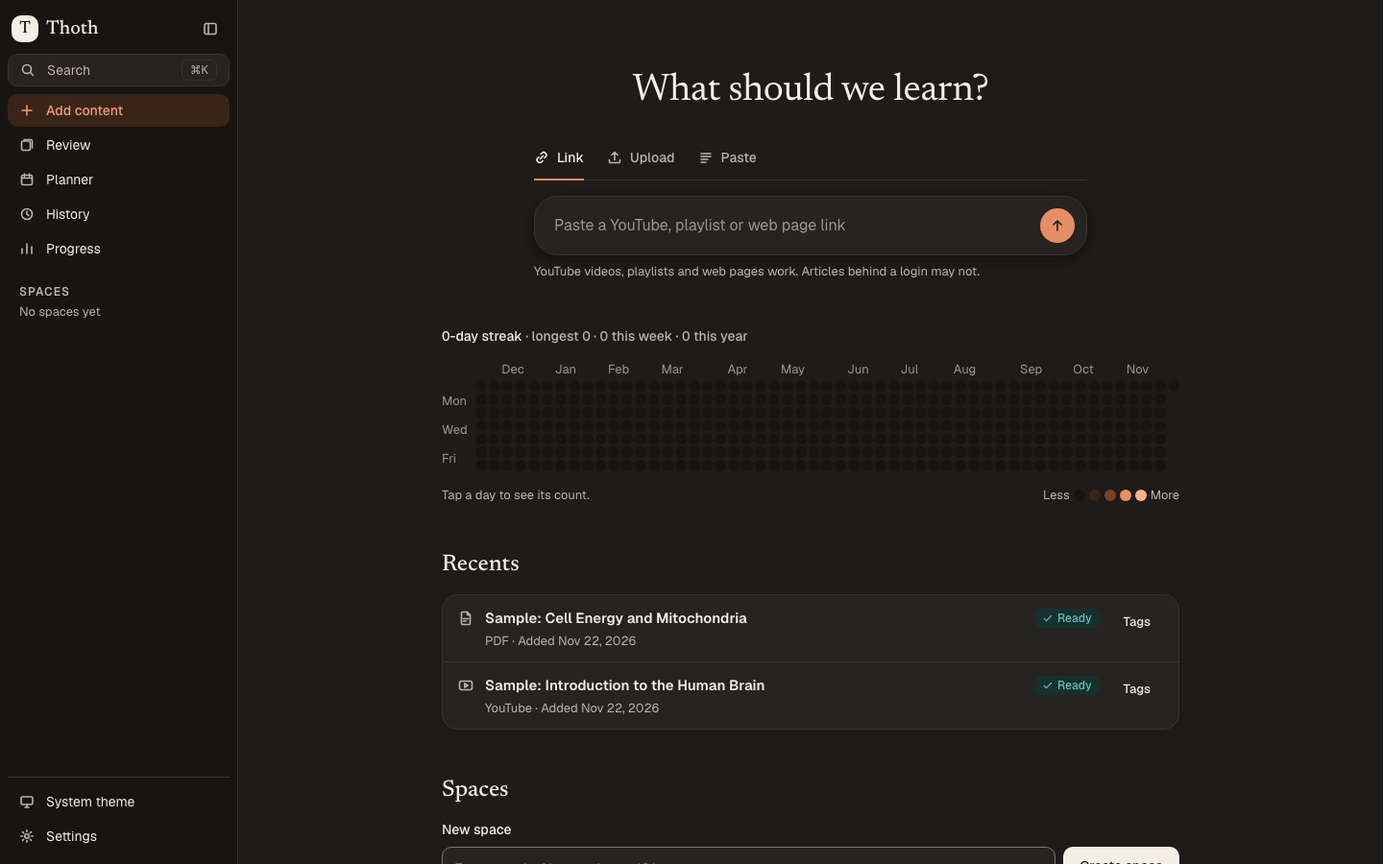
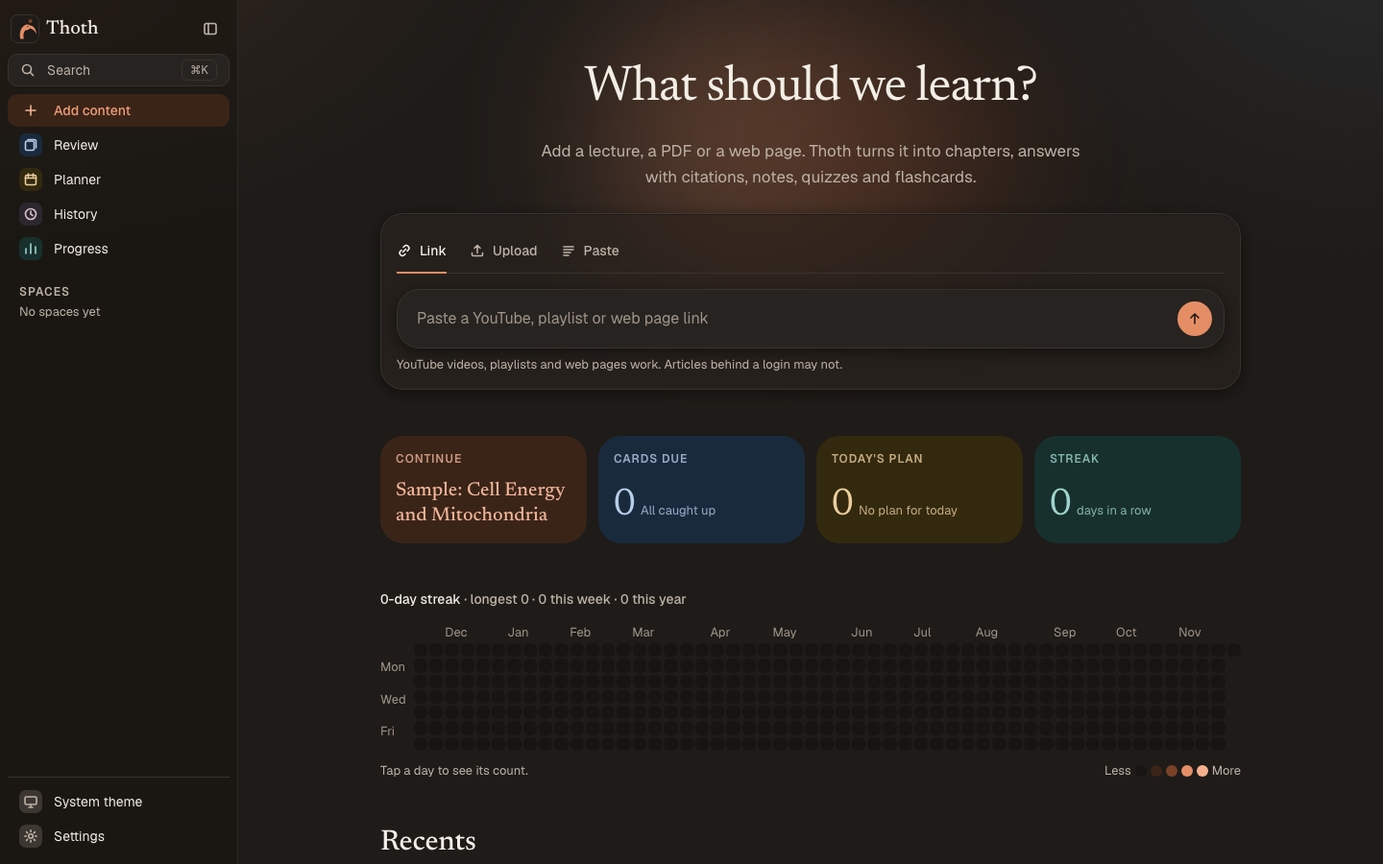
feat(app): polish redesign: habit tiles, palette spring, nav pill, docs and ADR-0047
Tinted habit tiles, palette spring-in, NavPill spring, formatCount and kindTone
tests, brand README, ADR-0047 (amends 0009 and 0020), docs 05 and 11, roadmap
Phase 13, and the landing screenshots retaken from the redesigned app.

diff --git a/apps/web/src/features/habits/heatmap.tsx b/apps/web/src/features/habits/heatmap.tsx
@@ -3,6 +3,7 @@
 import type { Habits as HabitsData, HeatmapCell } from "@thoth/core";
 import { cx } from "@thoth/ui";
 import { useEffect, useRef, useState } from "react";
+import { CountUp } from "@/app/_components/motion/primitives";
 import { loadHabitsAction } from "./actions";
 
 /** Five Hearth steps: empty, then four accent strengths (light and dark both read as "more"). */
@@ -63,10 +64,10 @@ export function Habits({ compact = false }: { compact?: boolean }) {
         </p>
       ) : (
         <div className="grid grid-cols-2 gap-4 sm:grid-cols-4">
-          <Stat label="Current streak" value={`${stats.currentStreak}`} unit="days" />
-          <Stat label="Longest streak" value={`${stats.longestStreak}`} unit="days" />
-          <Stat label="This week" value={`${stats.thisWeek}`} unit="actions" />
-          <Stat label="This year" value={`${stats.thisYear}`} unit="actions" />
+          <Stat tone="tone-sage" label="Current streak" value={stats.currentStreak} unit="days" />
+          <Stat tone="tone-butter" label="Longest streak" value={stats.longestStreak} unit="days" />
+          <Stat tone="tone-sky" label="This week" value={stats.thisWeek} unit="actions" />
+          <Stat tone="tone-peach" label="This year" value={stats.thisYear} unit="actions" />
         </div>
       )}
       <Grid heatmap={heatmap} />
@@ -74,12 +75,23 @@ export function Habits({ compact = false }: { compact?: boolean }) {
   );
 }
 
-function Stat({ label, value, unit }: { label: string; value: string; unit: string }) {
+/** A tinted habit tile (ADR-0047); the number counts up when it appears. */
+function Stat({
+  label,
+  value,
+  unit,
+  tone,
+}: {
+  label: string;
+  value: number;
+  unit: string;
+  tone: string;
+}) {
   return (
-    <div className="flex flex-col gap-1 rounded-lg border border-border-subtle bg-surface-200 p-4">
-      <span className="type-caption text-ink-muted">{label}</span>
-      <span className="type-heading-1 text-ink tabular-nums">
-        {value} <span className="type-caption text-ink-muted">{unit}</span>
+    <div className={cx("flex flex-col gap-1 rounded-xl p-4", tone)}>
+      <span className="type-caption opacity-80">{label}</span>
+      <span className="type-heading-1 tabular-nums">
+        <CountUp value={value} /> <span className="type-caption opacity-80">{unit}</span>
       </span>
     </div>
   );

diff --git a/apps/web/src/app/_components/motion/nav-pill.tsx b/apps/web/src/app/_components/motion/nav-pill.tsx
@@ -4,14 +4,17 @@ import { spring } from "@thoth/ui";
 import { motion } from "motion/react";
 
 /**
- * The current page's highlight in the sidebar. One `layoutId` across every nav item, so it
- * slides from the old page to the new one (ADR-0047). Render it first inside a nav item.
+ * The current page's highlight in the sidebar (ADR-0047). It springs in as a page opens; its
+ * shared `layoutId` also slides it between items that live in the same render. Render it
+ * first inside a nav item.
  */
 export function NavPill({ show }: { show: boolean }) {
   if (!show) return null;
   return (
     <motion.span
       layoutId="sidebar-current"
+      initial={{ opacity: 0, scale: 0.92 }}
+      animate={{ opacity: 1, scale: 1 }}
       transition={spring.snappy}
       aria-hidden="true"
       className="app-nav-pill"

diff --git a/apps/web/src/app/_components/motion/format.test.ts b/apps/web/src/app/_components/motion/format.test.ts
@@ -1,0 +1,21 @@
+import { contentKinds } from "@thoth/core";
+import { describe, expect, it } from "vitest";
+import { kindTone } from "../../../features/library/kind-tone";
+import { formatCount } from "./format";
+
+describe("formatCount (CountUp)", () => {
+  it("shows whole numbers only, with separators", () => {
+    expect(formatCount(0)).toBe("0");
+    expect(formatCount(3.4999)).toBe("3");
+    expect(formatCount(12.5)).toBe("13");
+    expect(formatCount(1234567)).toBe("1,234,567");
+  });
+});
+
+describe("kindTone", () => {
+  it("gives every content kind its own tone", () => {
+    const tones = contentKinds.map((k) => kindTone[k]);
+    expect(tones.every((t) => t?.startsWith("tone-"))).toBe(true);
+    expect(new Set(tones).size).toBe(contentKinds.length);
+  });
+});

diff --git a/apps/web/src/app/_components/motion/primitives.tsx b/apps/web/src/app/_components/motion/primitives.tsx
@@ -3,6 +3,7 @@
 import { spring } from "@thoth/ui";
 import { animate, type HTMLMotionProps, motion, useInView, useMotionValue } from "motion/react";
 import { type ReactNode, useEffect, useRef } from "react";
+import { formatCount } from "./format";
 
 /** Fades and rises into place the first time it scrolls into view, after `delay` seconds. */
 export function Reveal({
@@ -63,9 +64,4 @@ export function CountUp({ value, className }: { value: number; className?: strin
       {formatCount(value)}
     </span>
   );
-}
-
-/** Whole numbers with thousands separators; CountUp shows only these, never 3.4999. */
-export function formatCount(n: number): string {
-  return Math.round(n).toLocaleString("en");
 }

diff --git a/apps/web/src/app/shell.css b/apps/web/src/app/shell.css
@@ -421,3 +421,26 @@
     background: var(--surface-300);
   }
 }
+
+/* The palette springs open (ADR-0047); the global reduced-motion rule turns this off. */
+@keyframes palette-in {
+  from {
+    opacity: 0;
+    transform: translateX(-50%) translateY(-8px) scale(0.97);
+  }
+  to {
+    opacity: 1;
+    transform: translateX(-50%) translateY(0) scale(1);
+  }
+}
+.palette__content {
+  animation: palette-in 260ms cubic-bezier(0.34, 1.4, 0.64, 1);
+}
+.palette__overlay {
+  animation: fade-in 200ms cubic-bezier(0.2, 0, 0, 1);
+}
+@keyframes fade-in {
+  from {
+    opacity: 0;
+  }
+}

diff --git a/apps/web/src/app/_components/motion/format.ts b/apps/web/src/app/_components/motion/format.ts
@@ -1,0 +1,4 @@
+/** Whole numbers with thousands separators; CountUp shows only these, never 3.4999. */
+export function formatCount(n: number): string {
+  return Math.round(n).toLocaleString("en");
+}

diff --git a/docs/decision/README.md b/docs/decision/README.md
@@ -48,53 +48,54 @@ What becomes easier, what becomes harder, and the follow-ups.
 
 ## Index
 
-| #                                                             | Decision                                                                                    | Status                           |
-| ------------------------------------------------------------- | ------------------------------------------------------------------------------------------- | -------------------------------- |
-| [0001](0001-record-architecture-decisions.md)                 | Record architecture decisions as append-only ADRs                                           | Accepted                         |
-| [0002](0002-single-user-local-first-pwa.md)                   | Single-user, local-first, installable PWA                                                   | Accepted                         |
-| [0003](0003-pnpm-turborepo-monorepo.md)                       | pnpm + Turborepo monorepo with source-only internal packages                                | Accepted                         |
-| [0004](0004-hexagonal-architecture.md)                        | Hexagonal architecture: core, ports, adapters, one composition root                         | Accepted (amended by 0017)       |
-| [0005](0005-result-type-for-expected-errors.md)               | `Result` type for expected failures; exceptions only for bugs                               | Accepted                         |
-| [0006](0006-sqlite-libsql-drizzle.md)                         | SQLite through libSQL and Drizzle ORM                                                       | Accepted (amended by 0029)       |
-| [0007](0007-pwa-manifest-and-handwritten-service-worker.md)   | Built-in manifest + a hand-written service worker                                           | Accepted                         |
-| [0008](0008-llm-provider-port-api-key-and-subscription.md)    | One LLM port with two adapters: API key and Claude subscription                             | Accepted (amended by 0013, 0037) |
-| [0009](0009-hearth-design-system-vendored-tokens.md)          | Hearth design system, vendored, with generated CSS tokens                                   | Accepted                         |
-| [0010](0010-tooling-biome-vitest-strict-ts.md)                | Biome, Vitest, strict TypeScript 5.9                                                        | Accepted                         |
-| [0011](0011-nextjs-16-cache-components-server-actions.md)     | Next.js 16 App Router with Cache Components; Server Actions as thin adapters                | Accepted                         |
-| [0012](0012-feature-folders-in-web-app.md)                    | Feature folders in the web app                                                              | Accepted                         |
-| [0013](0013-llm-adapter-defaults-and-isolation.md)            | LLM adapter defaults, structured output, subscription isolation                             | Accepted (amended by 0037)       |
-| [0014](0014-ingestion-pipeline-and-job-runner.md)             | Ingestion: `@thoth/ingest` adapter, in-process job runner, segment-anchored chapters        | Accepted                         |
-| [0015](0015-chat-source-context.md)                           | Chat context: whole source under 150k tokens, else FTS top-k                                | Accepted (amended by 0029)       |
-| [0016](0016-learn-tools-background-generation.md)             | Learn tools generate in the background with `after()`; panels poll                          | Accepted                         |
-| [0017](0017-quiz-grading-and-fsrs-scheduling.md)              | Quiz grading rules; FSRS via `ts-fsrs` in core (amends 0004)                                | Accepted                         |
-| [0018](0018-exams-and-progress.md)                            | Space exams with timed sessions, server-only answer keys, progress computed on read         | Accepted                         |
-| [0019](0019-one-based-paragraph-citations.md)                 | Paragraph citations are 1-based everywhere and stored on text locators                      | Accepted                         |
-| [0020](0020-native-app-feel-and-app-frame.md)                 | Native app feel: fixed app frame, collapsible sidebar, Cmd+K, theme switch                  | Accepted                         |
-| [0021](0021-dockable-content-workspace.md)                    | Dockable content workspace with dockview                                                    | Accepted                         |
-| [0022](0022-notes-live-preview-editor.md)                     | Notes use a live-preview Tiptap editor, stored as Markdown                                  | Accepted                         |
-| [0023](0023-activity-log-for-habit-tracker.md)                | Activity log for the habit tracker                                                          | Accepted                         |
-| [0024](0024-dockable-workspace-implementation.md)             | How the dockable workspace is built (dockview details)                                      | Accepted                         |
-| [0025](0025-notes-draft-streaming-and-storage.md)             | Notes drafts stream through a polled in-memory run; editor storage details                  | Accepted                         |
-| [0026](0026-habit-days-search-and-anki-export.md)             | Habit days, search composition and Anki export format                                       | Accepted                         |
-| [0027](0027-passcode-gate-and-lan-server.md)                  | Passcode gate for non-local access, with a peer-stamping LAN server                         | Accepted                         |
-| [0028](0028-browser-tests-with-scripted-llm.md)               | End-to-end browser tests with Playwright and a scripted LLM, run in CI                      | Accepted                         |
-| [0029](0029-local-embeddings-and-hybrid-retrieval.md)         | Local embeddings in libSQL vectors, hybrid retrieval with FTS5                              | Accepted                         |
-| [0030](0030-study-planner.md)                                 | A deterministic study planner that adapts to progress                                       | Accepted                         |
-| [0031](0031-whiteboard-canvas.md)                             | One whiteboard canvas for visual explanations and mind maps, linked to the source           | Accepted                         |
-| [0032](0032-e2e-suite-shape.md)                               | How the end-to-end suite is shaped                                                          | Accepted                         |
-| [0033](0033-search-indexer-and-retrieval-fallbacks.md)        | Background search indexer, Cmd+K distance cut-off and keyword fallbacks                     | Accepted                         |
-| [0034](0034-planner-pacing-exam-and-rest-days.md)             | Planner pacing, the exam day and the rest day                                               | Accepted                         |
-| [0035](0035-whiteboard-operations-and-runs.md)                | Whiteboard operations, guards and background runs                                           | Accepted                         |
-| [0036](0036-desktop-app-tauri-node-sidecar.md)                | Desktop app with Tauri 2 and a Node sidecar                                                 | Accepted                         |
-| [0037](0037-openai-compatible-providers-profiles-keychain.md) | OpenAI-compatible providers, per-task profiles, keys in the OS keychain (amends 0008, 0013) | Accepted                         |
-| [0038](0038-annotations-thoth-links-backlinks.md)             | Annotations, `thoth:` links and a backlink index                                            | Accepted                         |
-| [0039](0039-space-owned-notes-chats-and-safe-rebuilds.md)     | Spaces own notes and chats; migrations run with foreign keys off                            | Accepted                         |
-| [0040](0040-llm-router-and-structured-output-fallback.md)     | A per-task router behind `container.llm()`, and how structured output degrades              | Accepted                         |
-| [0041](0041-annotation-colours-notes-bridge-pdf-export.md)    | Annotation colours, the notes bridge and PDF export                                         | Accepted                         |
-| [0042](0042-space-chat-citations-accents-playlists-tabs.md)   | Space chat citations, accent swatches, playlist listing, space tabs                         | Accepted                         |
-| [0043](0043-desktop-server-entry-bundle-cli-shim.md)          | Desktop server entry, flat bundle and CLI shim                                              | Accepted                         |
-| [0044](0044-landing-site-and-freshness-gate.md)               | A static landing site, one content source and a freshness gate                              | Accepted (amended by 0046)       |
-| [0045](0045-open-source-agpl-and-releases.md)                 | Open source under AGPL-3.0, with releases under stable names                                | Accepted                         |
-| [0046](0046-playful-landing-page.md)                          | A playful landing page: spring motion, live demos and guided walkthroughs (amends 0044)     | Accepted                         |
+| #                                                             | Decision                                                                                        | Status                           |
+| ------------------------------------------------------------- | ----------------------------------------------------------------------------------------------- | -------------------------------- |
+| [0001](0001-record-architecture-decisions.md)                 | Record architecture decisions as append-only ADRs                                               | Accepted                         |
+| [0002](0002-single-user-local-first-pwa.md)                   | Single-user, local-first, installable PWA                                                       | Accepted                         |
+| [0003](0003-pnpm-turborepo-monorepo.md)                       | pnpm + Turborepo monorepo with source-only internal packages                                    | Accepted                         |
+| [0004](0004-hexagonal-architecture.md)                        | Hexagonal architecture: core, ports, adapters, one composition root                             | Accepted (amended by 0017)       |
+| [0005](0005-result-type-for-expected-errors.md)               | `Result` type for expected failures; exceptions only for bugs                                   | Accepted                         |
+| [0006](0006-sqlite-libsql-drizzle.md)                         | SQLite through libSQL and Drizzle ORM                                                           | Accepted (amended by 0029)       |
+| [0007](0007-pwa-manifest-and-handwritten-service-worker.md)   | Built-in manifest + a hand-written service worker                                               | Accepted                         |
+| [0008](0008-llm-provider-port-api-key-and-subscription.md)    | One LLM port with two adapters: API key and Claude subscription                                 | Accepted (amended by 0013, 0037) |
+| [0009](0009-hearth-design-system-vendored-tokens.md)          | Hearth design system, vendored, with generated CSS tokens                                       | Accepted (amended by 0047)       |
+| [0010](0010-tooling-biome-vitest-strict-ts.md)                | Biome, Vitest, strict TypeScript 5.9                                                            | Accepted                         |
+| [0011](0011-nextjs-16-cache-components-server-actions.md)     | Next.js 16 App Router with Cache Components; Server Actions as thin adapters                    | Accepted                         |
+| [0012](0012-feature-folders-in-web-app.md)                    | Feature folders in the web app                                                                  | Accepted                         |
+| [0013](0013-llm-adapter-defaults-and-isolation.md)            | LLM adapter defaults, structured output, subscription isolation                                 | Accepted (amended by 0037)       |
+| [0014](0014-ingestion-pipeline-and-job-runner.md)             | Ingestion: `@thoth/ingest` adapter, in-process job runner, segment-anchored chapters            | Accepted                         |
+| [0015](0015-chat-source-context.md)                           | Chat context: whole source under 150k tokens, else FTS top-k                                    | Accepted (amended by 0029)       |
+| [0016](0016-learn-tools-background-generation.md)             | Learn tools generate in the background with `after()`; panels poll                              | Accepted                         |
+| [0017](0017-quiz-grading-and-fsrs-scheduling.md)              | Quiz grading rules; FSRS via `ts-fsrs` in core (amends 0004)                                    | Accepted                         |
+| [0018](0018-exams-and-progress.md)                            | Space exams with timed sessions, server-only answer keys, progress computed on read             | Accepted                         |
+| [0019](0019-one-based-paragraph-citations.md)                 | Paragraph citations are 1-based everywhere and stored on text locators                          | Accepted                         |
+| [0020](0020-native-app-feel-and-app-frame.md)                 | Native app feel: fixed app frame, collapsible sidebar, Cmd+K, theme switch                      | Accepted (amended by 0047)       |
+| [0021](0021-dockable-content-workspace.md)                    | Dockable content workspace with dockview                                                        | Accepted                         |
+| [0022](0022-notes-live-preview-editor.md)                     | Notes use a live-preview Tiptap editor, stored as Markdown                                      | Accepted                         |
+| [0023](0023-activity-log-for-habit-tracker.md)                | Activity log for the habit tracker                                                              | Accepted                         |
+| [0024](0024-dockable-workspace-implementation.md)             | How the dockable workspace is built (dockview details)                                          | Accepted                         |
+| [0025](0025-notes-draft-streaming-and-storage.md)             | Notes drafts stream through a polled in-memory run; editor storage details                      | Accepted                         |
+| [0026](0026-habit-days-search-and-anki-export.md)             | Habit days, search composition and Anki export format                                           | Accepted                         |
+| [0027](0027-passcode-gate-and-lan-server.md)                  | Passcode gate for non-local access, with a peer-stamping LAN server                             | Accepted                         |
+| [0028](0028-browser-tests-with-scripted-llm.md)               | End-to-end browser tests with Playwright and a scripted LLM, run in CI                          | Accepted                         |
+| [0029](0029-local-embeddings-and-hybrid-retrieval.md)         | Local embeddings in libSQL vectors, hybrid retrieval with FTS5                                  | Accepted                         |
+| [0030](0030-study-planner.md)                                 | A deterministic study planner that adapts to progress                                           | Accepted                         |
+| [0031](0031-whiteboard-canvas.md)                             | One whiteboard canvas for visual explanations and mind maps, linked to the source               | Accepted                         |
+| [0032](0032-e2e-suite-shape.md)                               | How the end-to-end suite is shaped                                                              | Accepted                         |
+| [0033](0033-search-indexer-and-retrieval-fallbacks.md)        | Background search indexer, Cmd+K distance cut-off and keyword fallbacks                         | Accepted                         |
+| [0034](0034-planner-pacing-exam-and-rest-days.md)             | Planner pacing, the exam day and the rest day                                                   | Accepted                         |
+| [0035](0035-whiteboard-operations-and-runs.md)                | Whiteboard operations, guards and background runs                                               | Accepted                         |
+| [0036](0036-desktop-app-tauri-node-sidecar.md)                | Desktop app with Tauri 2 and a Node sidecar                                                     | Accepted                         |
+| [0037](0037-openai-compatible-providers-profiles-keychain.md) | OpenAI-compatible providers, per-task profiles, keys in the OS keychain (amends 0008, 0013)     | Accepted                         |
+| [0038](0038-annotations-thoth-links-backlinks.md)             | Annotations, `thoth:` links and a backlink index                                                | Accepted                         |
+| [0039](0039-space-owned-notes-chats-and-safe-rebuilds.md)     | Spaces own notes and chats; migrations run with foreign keys off                                | Accepted                         |
+| [0040](0040-llm-router-and-structured-output-fallback.md)     | A per-task router behind `container.llm()`, and how structured output degrades                  | Accepted                         |
+| [0041](0041-annotation-colours-notes-bridge-pdf-export.md)    | Annotation colours, the notes bridge and PDF export                                             | Accepted                         |
+| [0042](0042-space-chat-citations-accents-playlists-tabs.md)   | Space chat citations, accent swatches, playlist listing, space tabs                             | Accepted                         |
+| [0043](0043-desktop-server-entry-bundle-cli-shim.md)          | Desktop server entry, flat bundle and CLI shim                                                  | Accepted                         |
+| [0044](0044-landing-site-and-freshness-gate.md)               | A static landing site, one content source and a freshness gate                                  | Accepted (amended by 0046)       |
+| [0045](0045-open-source-agpl-and-releases.md)                 | Open source under AGPL-3.0, with releases under stable names                                    | Accepted                         |
+| [0046](0046-playful-landing-page.md)                          | A playful landing page: spring motion, live demos and guided walkthroughs (amends 0044)         | Accepted                         |
+| [0047](0047-app-redesign-icon-expressive-layer.md)            | The app gets an icon, an expressive layer, spring motion and a little glass (amends 0009, 0020) | Accepted                         |
 
 Add a new row when you add an ADR. When you supersede one, change its status here as well.

diff --git a/docs/decision/0047-app-redesign-icon-expressive-layer.md b/docs/decision/0047-app-redesign-icon-expressive-layer.md
@@ -1,0 +1,58 @@
+# ADR-0047: The app gets an icon, an expressive layer, spring motion and a little glass
+
+- Status: Accepted
+- Date: 2026-11-22
+- Amends: ADR-0009, ADR-0020
+- Builds on: ADR-0046
+
+## Context
+
+The landing page (ADR-0046) found a look the owner loves: "Hearth, turned up", with springy motion. The app itself still looked plain, and its mark was a serif "T".
+
+The owner asked for:
+
+- the same feel in the app;
+- an icon with meaning;
+- "some liquid glass, not much, so it feels like an app rather than a web page".
+
+The owner's limit was **bold chrome, calm reading**. Reading surfaces stay quiet.
+
+## Decision
+
+1. **The icon.** An ibis head under the moon (Thoth, god of writing and the moon), drawn flat and simple, in the spirit of the Docker and DeepSeek animals.
+   - **Masters:** in `design/brand/`, in three forms: the tile, a small cut for 16–32 px, and a `currentColor` mark.
+   - **Components:** `ThothIcon` and `ThothMark` in `@thoth/ui`.
+   - **Where it appears:**
+     - the app sidebar;
+     - the favicons;
+     - the PWA icons, rendered from the master;
+     - the desktop app icons, generated with `tools/render-brand-icon.mjs` and `tauri icon`;
+     - the landing site.
+2. **One expressive layer for the app and the site,** in `@thoth/ui`.
+   - **`styles/expressive.css`:**
+     - tones (`tone-peach`, `tone-sage`, `tone-sky`, `tone-butter`, `tone-lilac`);
+     - glows;
+     - `type-hero`;
+     - 3D helpers;
+     - `glass`.
+   - **`motion.ts`:** the springs, snappy, smooth, gentle and bouncy.
+
+   All of it is built from Hearth tokens with `color-mix`; there is no hex. This amends ADR-0009: tones may fill cards, tiles and chips in chrome, but **never sit behind reading text** (PDF, transcript, notes, chat answers, whiteboard content).
+3. **Motion: `motion` 14.10.1 in `apps/web`,** under `LazyMotion` and `MotionConfig reducedMotion="user"`. This amends ADR-0020's motion rule: springs replace fixed durations for presses, panels, cards and lists; CSS keyframes stay for things like the palette opening. With `prefers-reduced-motion`, transforms are dropped. The e2e suite runs with reduced motion, so journeys never wait on animation.
+4. **Glass, lightly.**
+   - **Where:** the sidebar, the command palette, dialogs and the home composer card. They are translucent and blurred, over soft ambient light painted behind the app frame.
+   - **Reduced transparency:** with `prefers-reduced-transparency`, the glass turns opaque.
+   - **Never:** on reading surfaces.
+5. **Where the colour goes** (doc 11 has the full list):
+   - **Home:** the at-a-glance tiles count up, recents are tinted by kind (`features/library/kind-tone.ts`), and space tiles take each space's own accent.
+   - **Review:** a 3D flip, rating buttons tinted by meaning, and cards that fly off.
+   - **Quiz:** a spring progress bar, and feedback that pops in, or shakes when wrong.
+   - **Spaces, progress and habits:** tinted number tiles, and a score ring.
+   - **Sidebar:** icon tiles.
+
+## Consequences
+
+- The app and the landing page share one look. A change to a tone or a spring changes both.
+- The landing page's screenshots, retaken by `site-shots.ts`, show the redesigned app with no other work.
+- The sidebar is rendered per page, so its current-page pill springs in when a page opens. It does not slide from the previous item. Moving `AppShell` into a shared layout would make it slide; that is left for later.
+- `motion` adds about 60 KB to the app's client JavaScript, loaded lazily.

diff --git a/docs/technical_design/11-app-shell-and-feel.md b/docs/technical_design/11-app-shell-and-feel.md
@@ -41,18 +41,23 @@ flowchart LR
 6. **Chrome is not text.**
    - Buttons, tabs, nav items and panel headers use `cursor: default` and `user-select: none`; `shell.css` sets this.
    - Content stays selectable.
-7. **Motion** (Hearth motion guide):
-   - Durations: 150 ms for hover and press, 200 ms for menus and drawers, 300 ms for modals.
-   - Easing: `cubic-bezier(0.2, 0, 0, 1)` for elements entering.
+7. **Motion** (ADR-0047): springs, like iOS and Material You.
+   - Use the springs from `@thoth/ui` (`spring.snappy` for presses, toggles and pills; `smooth` for cards and panels; `gentle` for large reveals; `bouncy` for playful moments) with `motion` components. Shared pieces are in `apps/web/src/app/_components/motion/`: `Reveal`, `Lift`, `CountUp`, `Ring`, `NavPill`, `PageEnter`.
+   - CSS transitions and keyframes are fine for small things (the composer focus glow, the palette opening). Use `cubic-bezier(0.2, 0, 0, 1)` there.
    - Animate only color, opacity and transform.
-   - Respect `prefers-reduced-motion`.
-8. **Density.**
+   - `MotionProvider` (`reducedMotion="user"`) and the global reduced-motion rule turn movement off. Every interaction must still work then; the e2e suite runs that way.
+8. **Colour and glass** (ADR-0047): bold chrome, calm reading.
+   - Tones from `@thoth/ui` (`tone-peach`, `tone-sage`, `tone-sky`, `tone-butter`, `tone-lilac`) fill tiles, cards, chips and sidebar icon tiles. Content kinds use `kindTone`, and spaces use their own accent (`data-accent`, `accent-tile`).
+   - `glass` (translucent and blurred) is for floating chrome only: the sidebar, palette, dialogs and the home composer card.
+   - Never put a tone or glass behind reading text: the PDF, transcript, notes, chat answers or whiteboard content.
+   - `prefers-reduced-transparency` makes the glass opaque.
+9. **Density.**
    - Interactive rows are 32–36 px in chrome, and at least 40 px for primary buttons.
    - Lists use hairline dividers (`border-subtle`), not cards, when there are many rows.
-9. **Modals** use `Dialog` from `@thoth/ui` (a native `<dialog>`). Render it only while open.
-10. **Empty states:** a serif `type-heading-3`, one sentence in `text-ink-muted`, and one primary action.
-11. **Theme:** use tokens only. Test every new screen in light and dark themes. The palette has "Use light theme" and "Use dark theme" commands.
-12. **Phone** (under 768 px):
+10. **Modals** use `Dialog` from `@thoth/ui` (a native `<dialog>`). Render it only while open.
+11. **Empty states:** a serif `type-heading-3`, one sentence in `text-ink-muted`, and one primary action.
+12. **Theme:** use tokens only. Test every new screen in light and dark themes. The palette has "Use light theme" and "Use dark theme" commands.
+13. **Phone** (under 768 px):
     - The sidebar becomes a drawer opened from the top bar.
     - Tap targets are at least 44 px.
     - Nothing may need hover to work.

diff --git a/design/brand/README.md b/design/brand/README.md
@@ -1,0 +1,28 @@
+# Thoth brand
+
+Thoth's icon is an ibis head under the moon. Thoth, Egyptian god of writing, wisdom and the moon, is drawn as an ibis (ADR-0047). It is flat and simple on purpose, like the Docker whale.
+
+| File                   | Use                                                                                                |
+| ---------------------- | -------------------------------------------------------------------------------------------------- |
+| `thoth-icon.svg`       | The app icon: cream tile, terracotta ibis, peach moon. App stores, dock, the PWA, the landing page |
+| `thoth-icon-small.svg` | The 16–32 px cut: bolder neck and beak, bigger eye and moon. Favicons                              |
+| `thoth-mark.svg`       | The mark alone, in `currentColor`, with the eye cut out. Monochrome places                         |
+| `thoth-icon-1024.png`  | Rendered from `thoth-icon.svg`, as the input for the desktop icons                                 |
+
+In code, use `ThothIcon` (the tile) or `ThothMark` (the mark) from `@thoth/ui`. Do not copy the paths. The components and the SVGs share one path; change both together.
+
+## Colours
+
+These are Hearth's own: `surface-100` (cream), `accent` (terracotta) and `accent-muted` (peach). The icon keeps them in dark mode too, like any app icon.
+
+## Regenerating the icons
+
+```bash
+node tools/render-brand-icon.mjs
+pnpm --filter @thoth/desktop exec tauri icon ../../design/brand/thoth-icon-1024.png
+rm -rf apps/desktop/src-tauri/icons/android apps/desktop/src-tauri/icons/ios
+cp design/brand/thoth-icon-small.svg apps/web/src/app/icon.svg
+cp design/brand/thoth-icon-small.svg apps/site/src/app/icon.svg
+```
+
+The PWA icons (`apps/web/src/app/pwa-icon/[size]`) render `thoth-icon.svg` directly.

diff --git a/docs/plan/roadmap.md b/docs/plan/roadmap.md
@@ -244,6 +244,12 @@ Each phase ends with something that runs. After each phase I check it in the bro
 - The detailed tour moved to /features, with /changelog and /download beside it.
 - The freshness gate also checks the walkthroughs' screens and cursor targets.
 
+### Phase 13: An icon, and the app redesigned — DONE 2026-11-22
+
+- Thoth's icon, an ibis head under the moon, in the app, the PWA, the favicons, the desktop app and the landing page (ADR-0047; `design/brand/`).
+- The app picks up the landing page's look: tinted tiles that count up, kind-tinted recents, coloured spaces and sidebar icons, a 3D flashcard flip with tinted ratings, springy quiz feedback, and score rings.
+- Spring motion through `motion`, and a light touch of glass on the sidebar, palette, dialogs and composer. Reading surfaces stay calm.
+
 ### Later phases (after the MVP)
 
 - **9:** Podcast. A two-host script from the LLM, then TTS (OpenAI TTS, ElevenLabs, or local Kokoro), then merged audio with ffmpeg. Then Voice tutor mode and Dictate (Web Speech API or whisper).

diff --git a/docs/technical_design/05-frontend-and-design-system.md b/docs/technical_design/05-frontend-and-design-system.md
@@ -14,6 +14,12 @@ flowchart LR
 
 **Before building any UI, read `design/hearth/README.md`** (the brand book) and the guideline at `design/hearth/components/<Comp>/README.md`.
 
+## Expressive layer and brand (ADR-0047)
+
+- `packages/ui/src/styles/expressive.css` is hand-written, not generated. It holds the tones, glows, `type-hero` and `type-hero-sm`, the 3D helpers and `glass`, all from Hearth tokens. `index.css` imports it, so the app and the landing site share it.
+- `packages/ui/src/motion.ts` exports `spring`, the shared spring transitions.
+- `ThothIcon` and `ThothMark` (`packages/ui/src/components/thoth-mark.tsx`) are the brand. The masters and the regeneration steps are in `design/brand/README.md`.
+
 ## Using tokens
 
 | Need                            | Write                                                                                 | Not                       |
